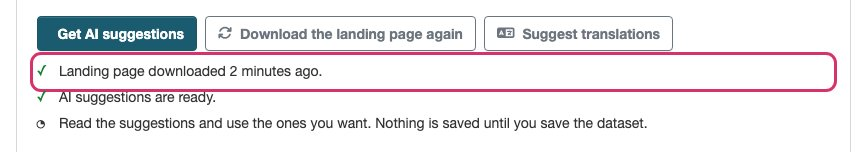
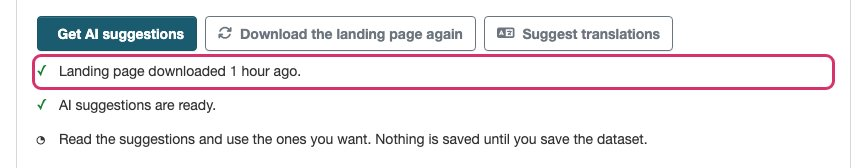
README: three screenshots retaken (whole rows in the model list, the outline clear of the next line, a shorter translation proposal); alt texts; editors see nothing of the connector itself

Changed region(s): [[0.0311, 0.1579, 0.9654, 0.7105], [0.0311, 0.7632, 0.7474, 0.8947], [0.0311, 0.0789, 0.7785, 0.1316]]

diff --git a/README.md b/README.md
@@ -384,7 +384,7 @@ them.
 
 ### Landing pages
 
-![The panel says when the landing page was read; its facts inform the suggestions](docs/images/landing-page.jpg)
+![The panel's status: the landing page has been downloaded, and the AI's suggestions are ready](docs/images/landing-page.jpg)
 
 **Make the landing page a recommended field.** The page is what the AI has most to go on: with it, the suggestions can
 say what the data contains, covers and how often it is updated; without it, the AI has only the texts in the form and
@@ -525,7 +525,7 @@ All commands are `ckan -c $CKAN_INI metadata-assistant <command>`:
 
 ## Translation proposals
 
-![Translation proposals: the English texts beside their Swedish and French translations, which an editor may correct, confirms having read, and applies](docs/images/translation-proposals.jpg)
+![Translation proposals: the English texts beside their Swedish translations, which an editor may correct, confirms having read, and applies](docs/images/translation-proposals.jpg)
 
 For a multilingual schema, the editor form can suggest translations of title, description and keywords into the
 schema's target languages (one AI request per language, so one that fails does not stop the others). For existing
